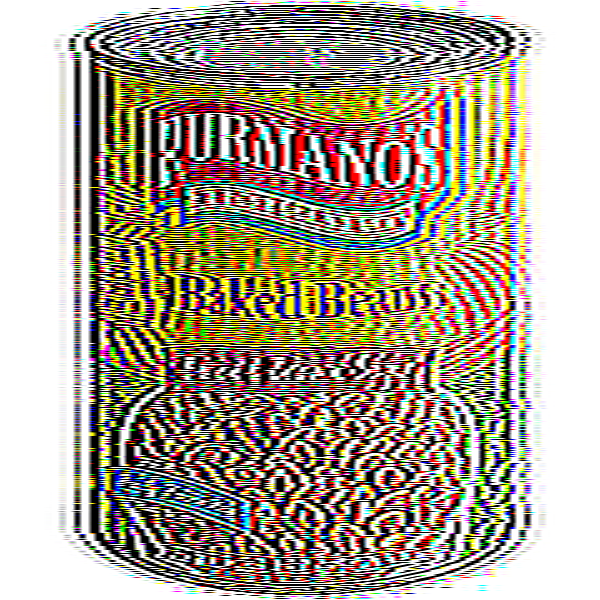
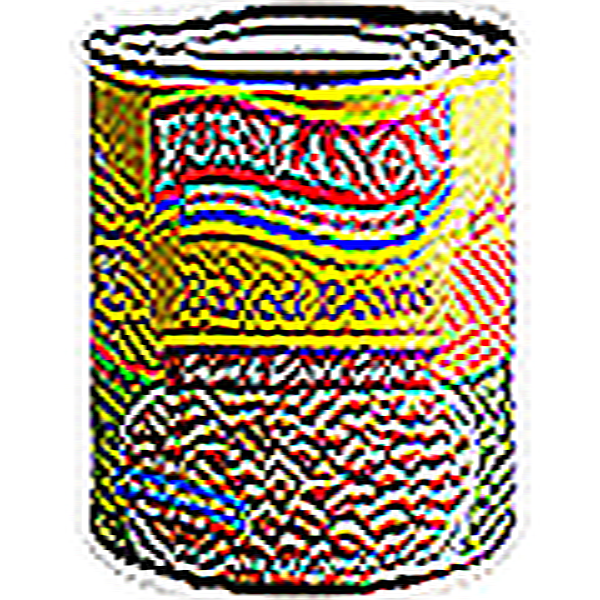
update

diff --git a/flashfry.py b/flashfry.py
@@ -1,5 +1,4 @@
-import argparse
-import sys
+import argparse,sys,random
 from PIL import Image
 from PIL import ImageFilter
 
@@ -7,7 +6,10 @@ from PIL import ImageFilter
 def fry(target):
     
     x, y = target.size
-    target = target.resize((x//5,y),Image.ANTIALIAS)
+
+    if random.randint(0,1) == 0: target = target.resize((x // random.randint(2,7), y),Image.ANTIALIAS)
+    else: target = target.resize((x,y // random.randint(2,7) ),Image.ANTIALIAS)
+
     target = target.filter(ImageFilter.SHARPEN)
     target = target.resize((x,y),Image.ANTIALIAS)
 

diff --git a/README.md b/README.md
@@ -1,5 +1,11 @@
-# flash fry
-Python script to absolutely destroy the quality of an image. Have fun kids.
+# Flash Fry
+Ever wanted to just absolutely ruin an image?
+
+Too much quality?
+
+Not sure what to do with all those pixels???
+
+Man have I got the tool for you. 
 <br><br><br>
 
 ### Control Image (Nothing run yet)
